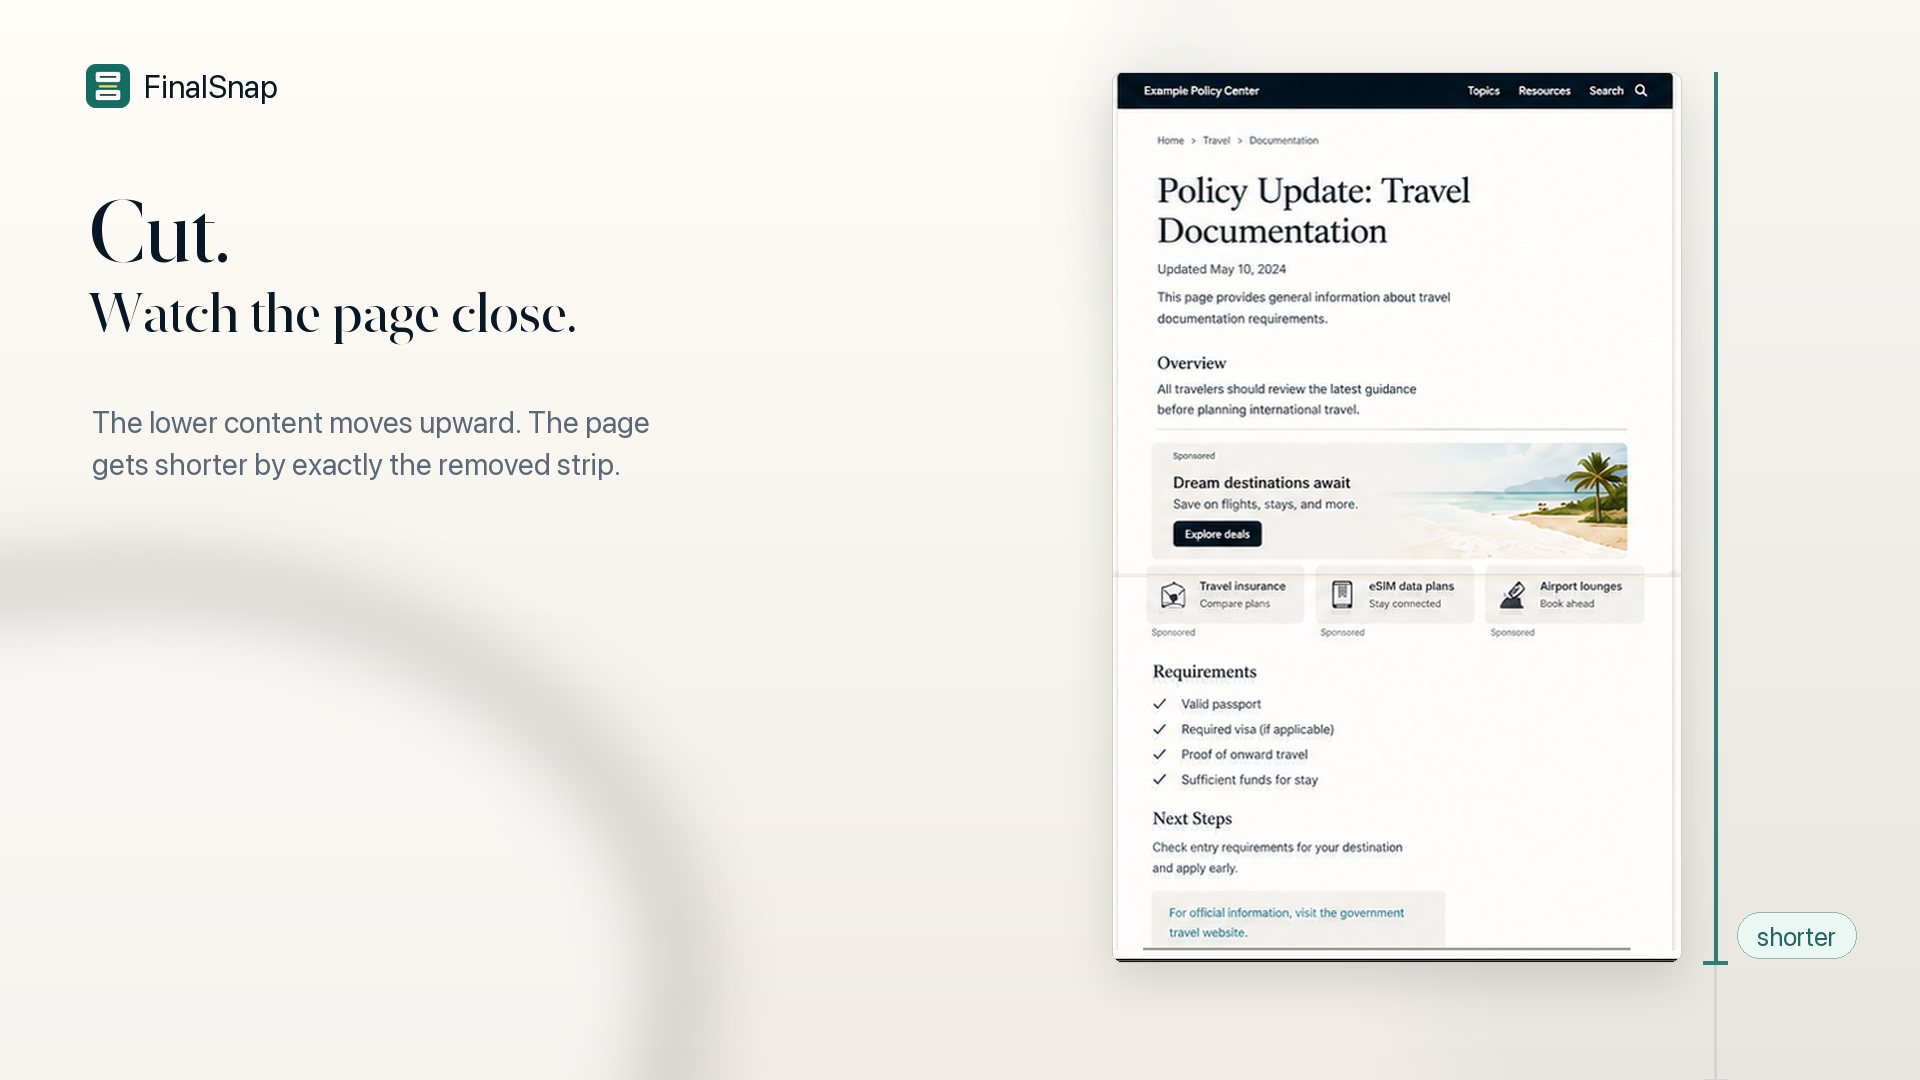
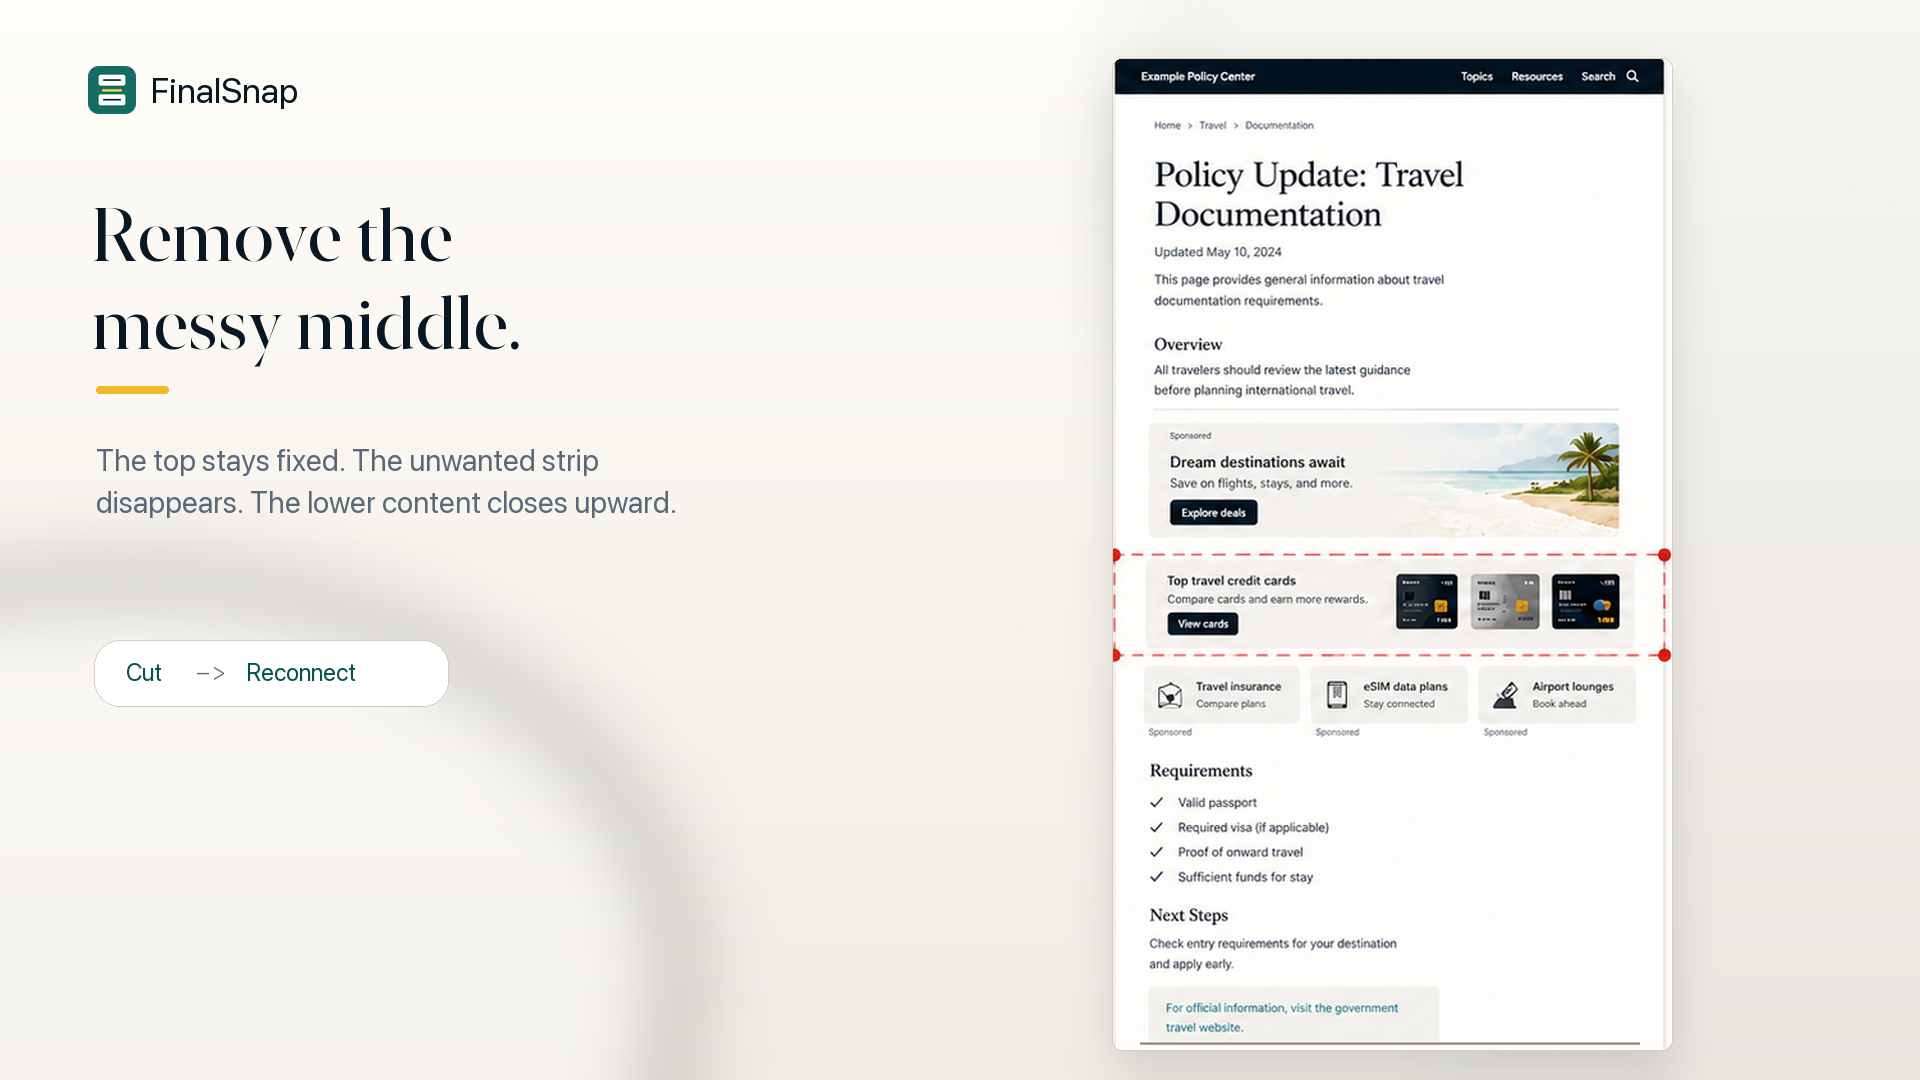
Update FinalSnap public site SEO metadata

diff --git a/index.html b/index.html
@@ -28,7 +28,7 @@
         "url": "https://hummingbirdteam.github.io/finalsnap/",
         "image": "https://hummingbirdteam.github.io/finalsnap/assets/finalsnap-marquee.png",
         "downloadUrl": "https://chromewebstore.google.com/detail/finalsnap/fbplgmgpdnogfbifbcmcadhfnnbcifcd",
-        "softwareVersion": "0.3.161",
+        "softwareVersion": "0.3.301",
         "browserRequirements": "Google Chrome 109 or later",
         "sameAs": [
           "https://chromewebstore.google.com/detail/finalsnap/fbplgmgpdnogfbifbcmcadhfnnbcifcd",
@@ -209,6 +209,19 @@
         border-color: var(--teal);
         background: var(--teal);
         color: #fff;
+      }
+
+      .access-note {
+        max-width: 640px;
+        margin-top: 16px;
+        color: var(--muted);
+        font-size: 15px;
+        line-height: 1.5;
+      }
+
+      .access-note a {
+        color: var(--teal-dark);
+        font-weight: 800;
       }
 
       .hero-visual {
@@ -449,6 +462,11 @@
           margin-top: -8px;
         }
 
+        .hero-visual::before {
+          inset: -8px 0;
+          border-radius: 20px;
+        }
+
         .actions {
           flex-direction: column;
         }
@@ -492,7 +510,6 @@
               data-hero-video
               autoplay
               muted
-              loop
               playsinline
               preload="auto"
               poster="assets/finalsnap-magic-cut-v7-site-nologo-poster.png"
@@ -504,6 +521,11 @@
           <div class="actions hero-actions">
             <a class="button primary" href="https://chromewebstore.google.com/detail/finalsnap/fbplgmgpdnogfbifbcmcadhfnnbcifcd" rel="noopener">Add to Chrome</a>
             <a class="button" href="#features">See what it does</a>
+            <p class="access-note">
+              If Chrome Web Store is unavailable in your region, contact
+              <a href="mailto:[email redacted]?subject=FinalSnap%20install%20help">[email redacted]</a>
+              for installation help. 中国大陆用户如果打不开商店链接，可以邮件联系我们获取安装帮助。
+            </p>
           </div>
         </div>
       </section>
@@ -579,6 +601,11 @@
             <div class="actions">
               <a class="button primary" href="https://chromewebstore.google.com/detail/finalsnap/fbplgmgpdnogfbifbcmcadhfnnbcifcd" rel="noopener">Install FinalSnap</a>
               <a class="button" href="support.html">Get support</a>
+              <p class="access-note">
+                Chrome Web Store may be unavailable in some regions. If the
+                install link does not open, email
+                <a href="mailto:[email redacted]?subject=FinalSnap%20install%20help">[email redacted]</a>.
+              </p>
             </div>
           </div>
         </div>

diff --git a/chrome-extension.html b/chrome-extension.html
@@ -29,7 +29,7 @@
         "url": "https://hummingbirdteam.github.io/finalsnap/chrome-extension.html",
         "image": "https://hummingbirdteam.github.io/finalsnap/assets/finalsnap-marquee.png",
         "downloadUrl": "https://chromewebstore.google.com/detail/finalsnap/fbplgmgpdnogfbifbcmcadhfnnbcifcd",
-        "softwareVersion": "0.3.161",
+        "softwareVersion": "0.3.301",
         "browserRequirements": "Google Chrome 109 or later",
         "sameAs": [
           "https://hummingbirdteam.github.io/finalsnap/",
@@ -177,6 +177,19 @@
         border-color: var(--teal);
         background: var(--teal);
         color: #fff;
+      }
+
+      .access-note {
+        max-width: 640px;
+        margin-top: 16px;
+        color: var(--muted);
+        font-size: 15px;
+        line-height: 1.5;
+      }
+
+      .access-note a {
+        color: var(--teal-dark);
+        font-weight: 800;
       }
 
       .visual img {
@@ -377,6 +390,11 @@
             <div class="actions">
               <a class="button primary" href="https://chromewebstore.google.com/detail/finalsnap/fbplgmgpdnogfbifbcmcadhfnnbcifcd" rel="noopener">Add FinalSnap to Chrome</a>
               <a class="button" href="./">View homepage</a>
+              <p class="access-note">
+                If Chrome Web Store does not open in your region, contact
+                <a href="mailto:[email redacted]?subject=FinalSnap%20install%20help">[email redacted]</a>
+                for installation help. 中国大陆用户如果打不开商店链接，可以邮件联系我们获取安装帮助。
+              </p>
             </div>
           </div>
           <div class="visual">
@@ -444,6 +462,10 @@
             <a href="./">FinalSnap homepage</a>
             <a href="support.html">Support and feedback</a>
           </div>
+          <p>
+            In regions where Chrome Web Store is unavailable, use this page as
+            the official FinalSnap reference and email support for installation help.
+          </p>
         </div>
       </section>
     </main>

diff --git a/README.md b/README.md
@@ -15,6 +15,13 @@ Recommended Chrome Web Store URLs after GitHub Pages is enabled:
 Chrome Web Store "Official URL" can remain `None` until the site is verified in Google Search Console.
 The Homepage URL and Support URL can use the GitHub Pages URLs above immediately.
 
+Mainland China sharing note:
+
+- Do not send Chinese users only the raw Chrome Web Store URL. Chrome Web Store can be unavailable in mainland China even when the item URL itself is valid.
+- Share the brand landing page first: `https://hummingbirdteam.github.io/finalsnap/chrome-extension.html`.
+- Keep Chrome Web Store as the official primary install source, but the landing page should show a clear support fallback for users whose region cannot open the store.
+- Do not publicly promise an alternate store, mirror, CRX, or zip install path until that path is actually prepared, tested, and supportable.
+
 Brand-search SEO notes:
 
 - The homepage, brand search landing page, support page, and privacy page should repeat `FinalSnap` consistently.
@@ -29,6 +36,8 @@ Homepage hero animation:
 
 These are generated from `tools/render-finalsnap-magic-cut-promo-v7.py` and should stay aligned with the current short promo-video baseline in `marketing/promo-v7/`.
 The homepage uses the no-logo variant because the site navigation already carries the FinalSnap brand mark; avoid double logo exposure in the first viewport.
+The current hero animation mirrors the in-product Cut Middle effect: same-source band removal plus the real `.bandCutEffect` film-strip pull, closing lines, flash, and `Strip removed` badge.
+Headline typography in generated promo assets should use the selected pixel-cut reference look: the high-contrast New York-style display serif from the `Remove the messy middle.` headline. Do not switch these promo/store hero assets to `Sora` / `Archivo` unless a future sans-serif variant is explicitly requested.
 
 Standalone promo-video baseline:
 